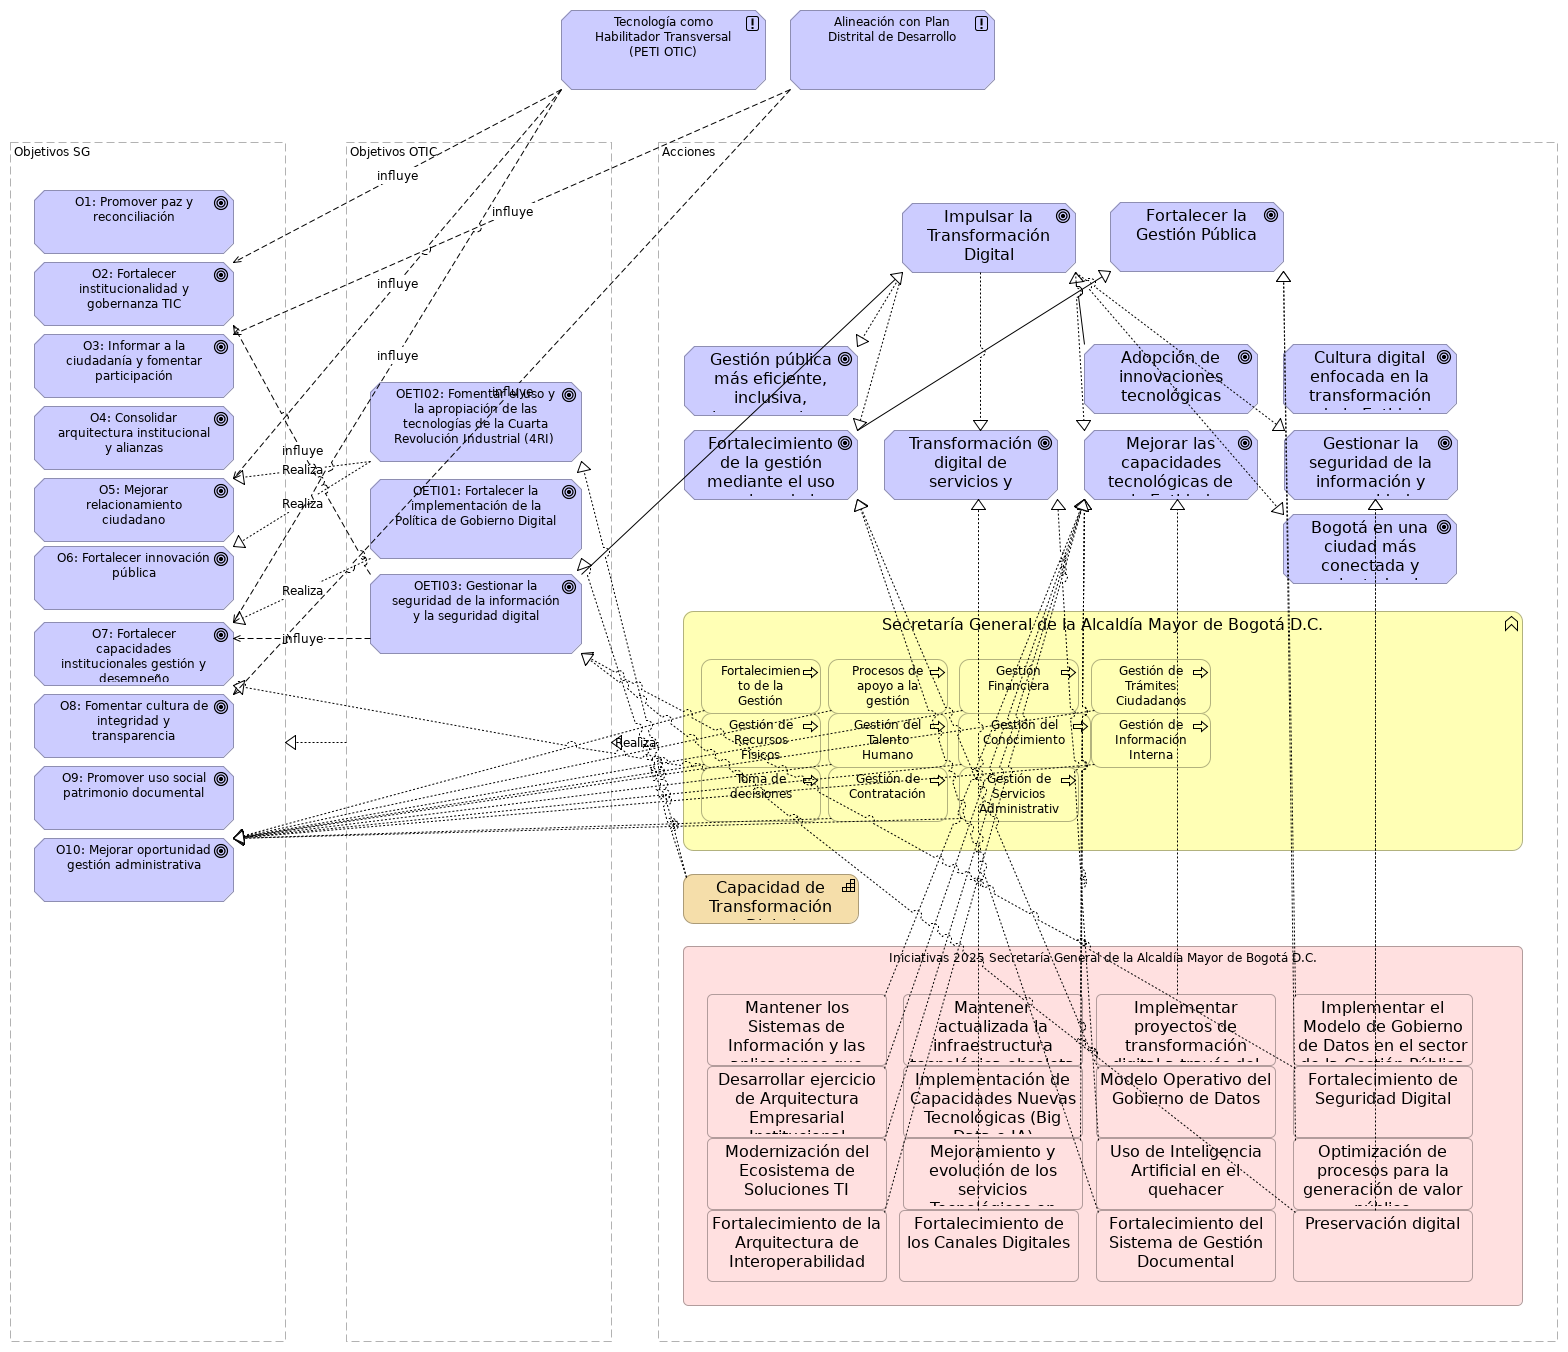
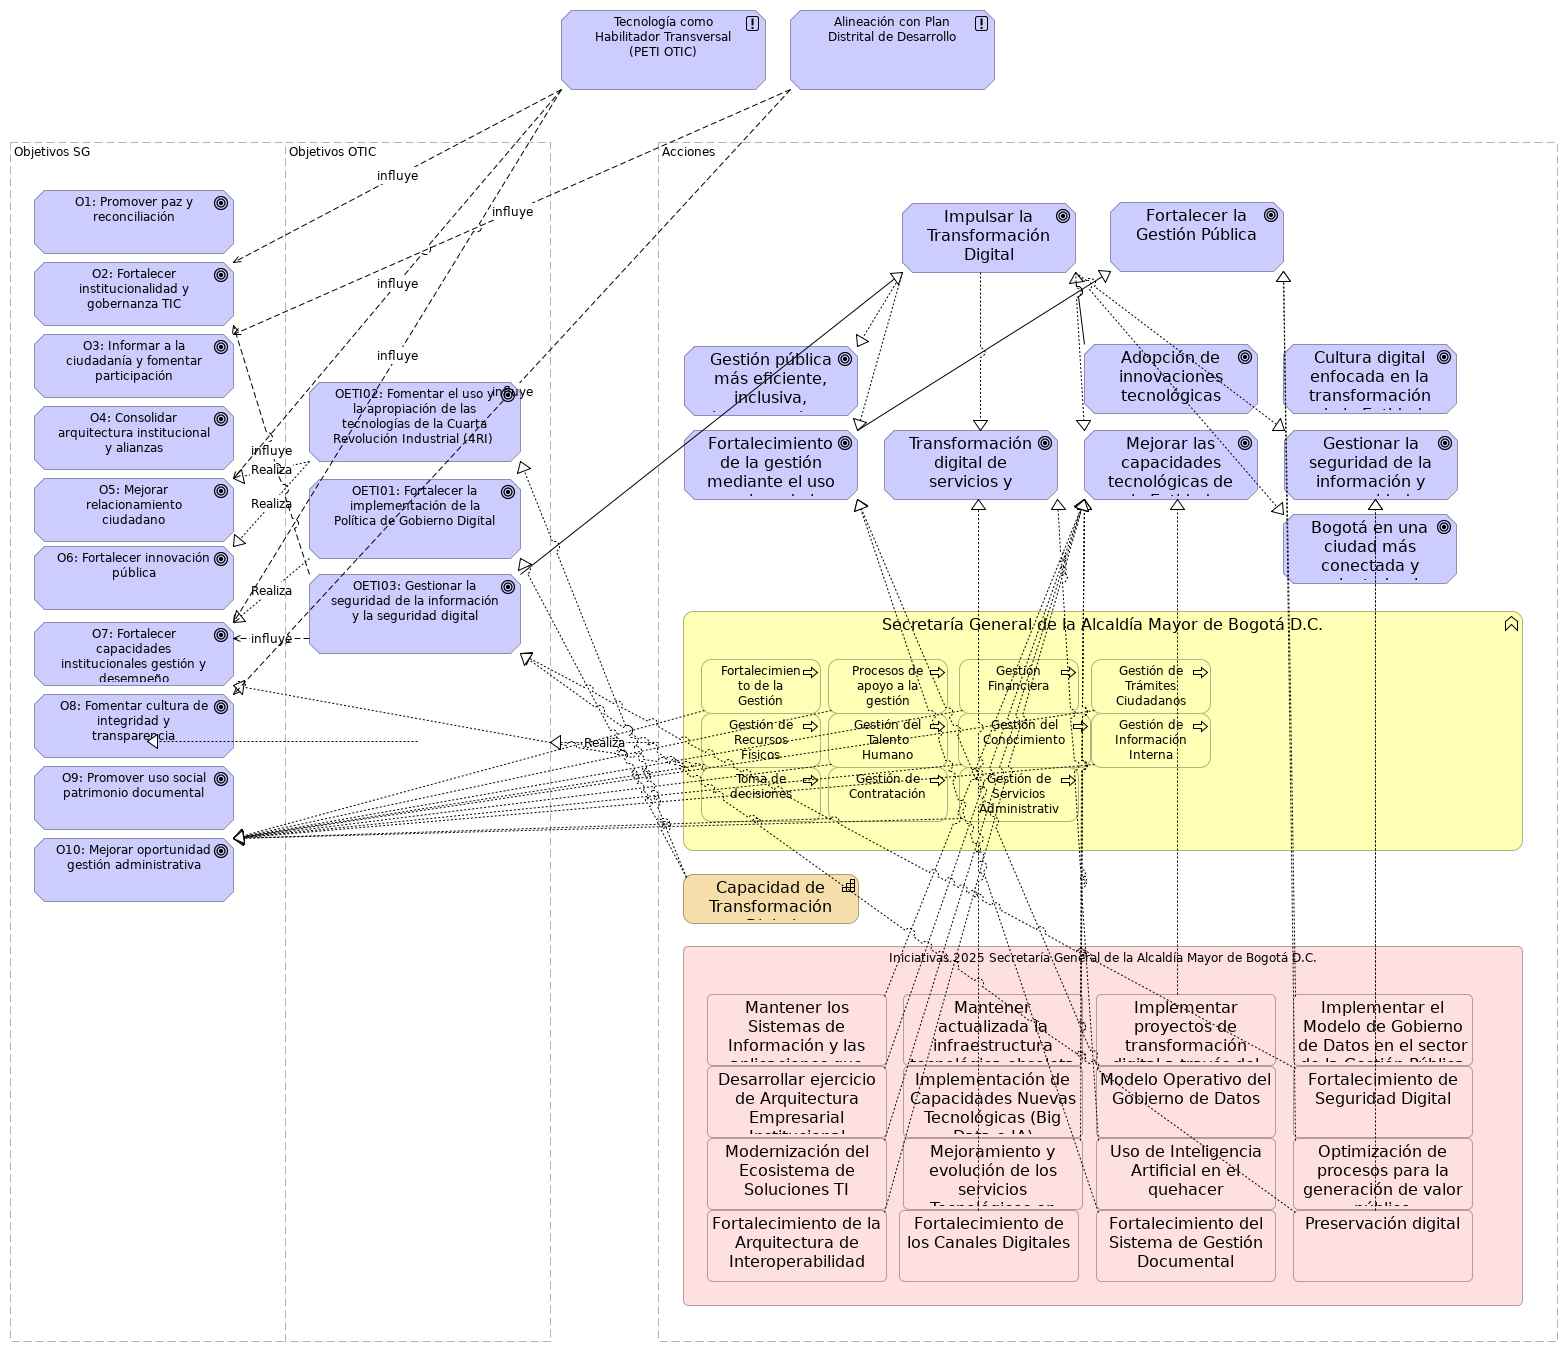
accion-actualizacionContd

Changed region(s): [[0.1562, 0.2796, 0.4375, 0.6213], [0.1875, 0.0932, 0.25, 0.1243]]

diff --git a/contd/report/id-e61caa0dc3cc436aa918b17e0f565135/views/id-b8b0ab13210747768416c9981a70a62a.html b/contd/report/id-e61caa0dc3cc436aa918b17e0f565135/views/id-b8b0ab13210747768416c9981a70a62a.html
@@ -35,11 +35,11 @@
 			   <map name="id-b8b0ab13210747768416c9981a70a62amap">
 				  		<area shape="rect" coords="790,10,995,90" href="../elements/id-b75ca2537df34657bf0e858be8e3e670.html"  target="element">
 				  		<area shape="rect" coords="561,10,766,90" href="../elements/id-cb68c6722f22456bac310150d5678f7d.html"  target="element">
-				  				<area shape="rect" coords="370,574,582,654" href="../elements/id-82f5c98e85bd4038ad25345d8758fb14.html"  target="element">
-				  				<area shape="rect" coords="370,382,582,462" href="../elements/id-13c3934dc188447f842bfd7fa291134e.html"  target="element">
-				  				<area shape="rect" coords="370,479,582,559" href="../elements/id-4780038f0aa24faab7ea555021126bee.html"  target="element">
+				  				<area shape="rect" coords="309,574,521,654" href="../elements/id-82f5c98e85bd4038ad25345d8758fb14.html"  target="element">
+				  				<area shape="rect" coords="309,382,521,462" href="../elements/id-13c3934dc188447f842bfd7fa291134e.html"  target="element">
+				  				<area shape="rect" coords="309,479,521,559" href="../elements/id-4780038f0aa24faab7ea555021126bee.html"  target="element">
 
-				  		<area shape="rect" coords="346,142,612,1342" href="../elements/id-2c7df20247e149c7b367a3b05b79568f.html"  target="element">
+				  		<area shape="rect" coords="285,142,551,1342" href="../elements/id-2c7df20247e149c7b367a3b05b79568f.html"  target="element">
 				  				<area shape="rect" coords="34,766,234,830" href="../elements/id-f8b7854a2dd14d39860ba74aafc10a70.html"  target="element">
 				  				<area shape="rect" coords="34,262,234,326" href="../elements/id-f934fe202519444ab5a4389e016fcc28.html"  target="element">
 				  				<area shape="rect" coords="34,406,234,470" href="../elements/id-d672e16628ac4b15a05283ea056414d2.html"  target="element">
